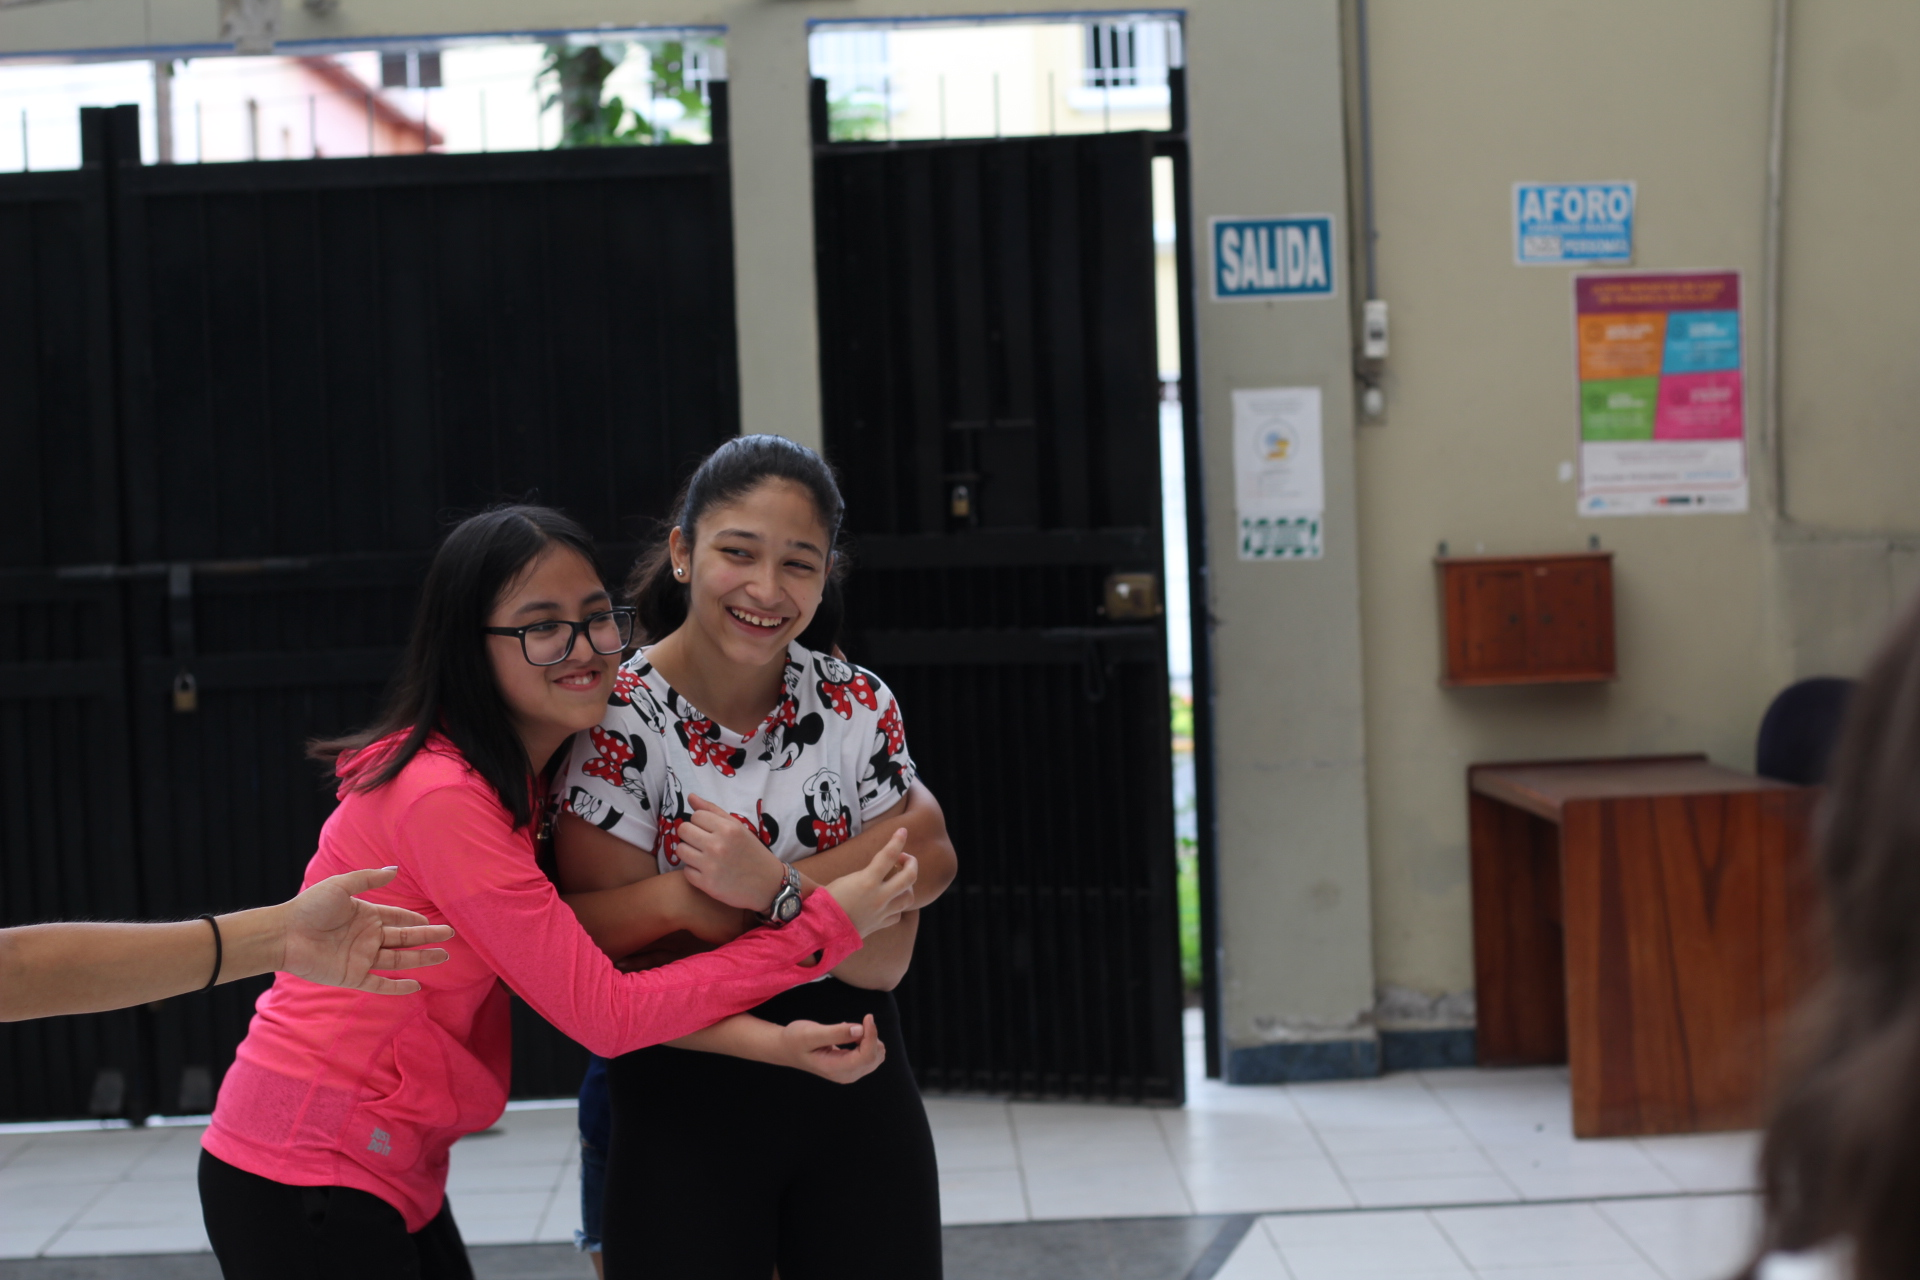
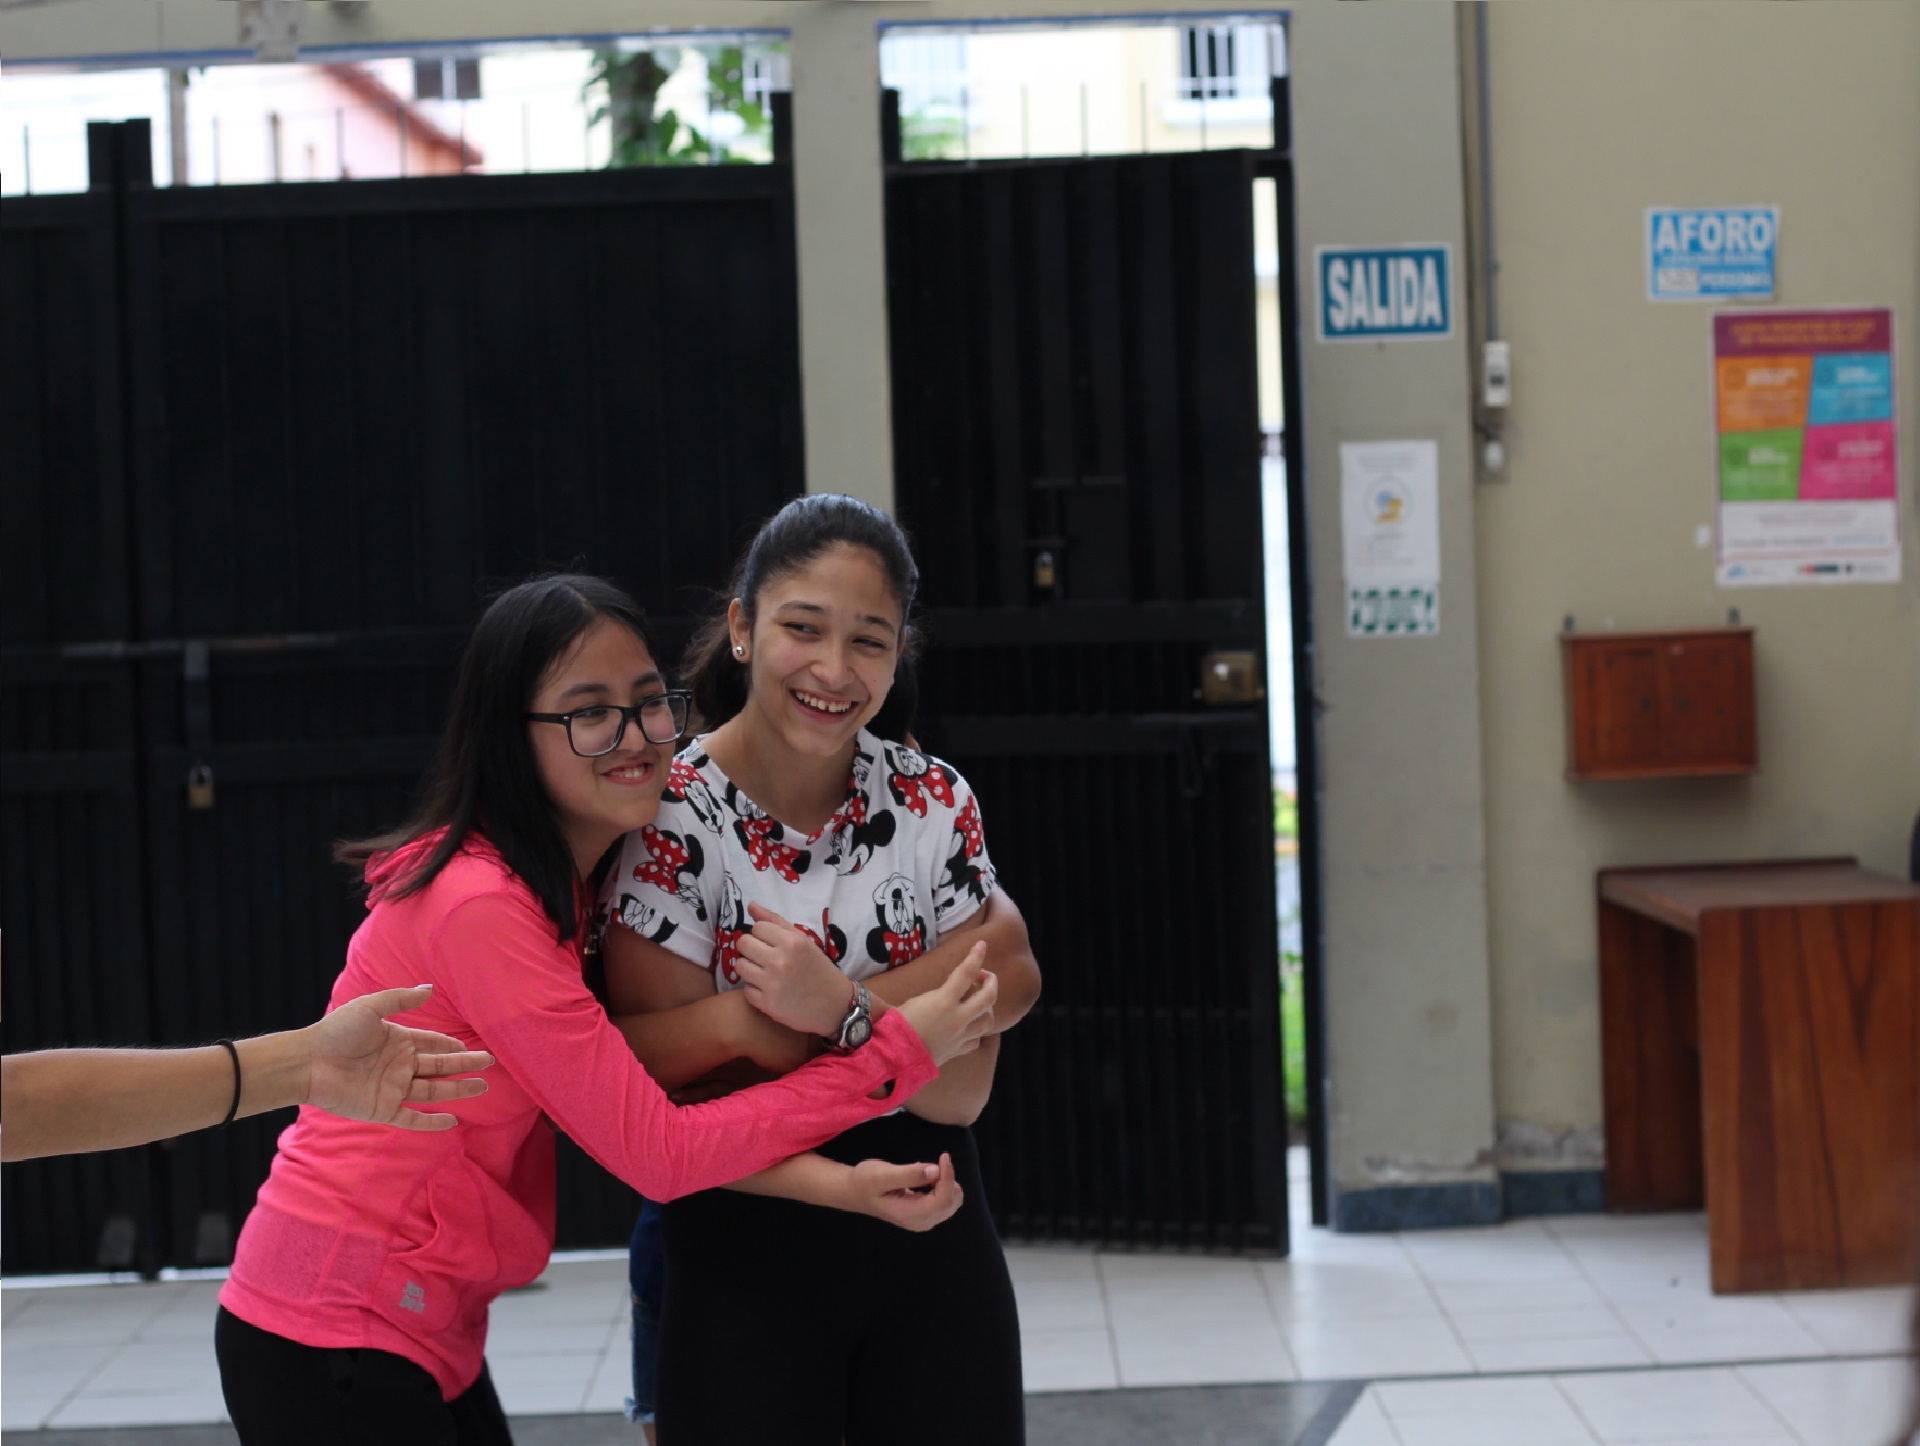
Carrusel
Ubicar botón de donar al lado derecho y ajustar nuestro programas, adicionalmente de adecuar los colores

diff --git a/index.html b/index.html
@@ -116,37 +116,44 @@ https://templatemo.com/tm-558-klassy-cafe
                     <div class="left-content">
                         <div class="inner-content">
                             <h4>Nuestros programas</h4>
-                            <h6>ENTERATE AQUI</h6>
-                            <div class="main-white-button scroll-to-section">
-                                <a href="#reservation">Donar</a>
-                            </div>
+                            <br>
+                            <h5 style="text-align: justify; color: white;">Lorem, ipsum dolor sit amet consectetur adipisicing elit. 
+                                Labore nostrum qui mollitia quia tempora nemo esse sed, 
+                                voluptas molestiae deserunt eaque soluta illo rem incidunt laborum assumenda iure, 
+                                saepe consequuntur?</h5>
+                            
                         </div>
                     </div>
                 </div>
                 <div class="col-lg-8">
-                    <div class="main-banner header-text">
-                        <div class="Modern-Slider">
-                            <!-- Item -->
-                            <div class="item ">
-                                <div class="img-fluid">
-                                    <img src="assets/fotos/2113978389234610332_IMG_5744.JPG" width="100%" alt="">
+                    <div class="main-banner header-text cnt">
+                        <div class="carousel-container">
+                            <div class="Modern-Slider">
+                                <!-- Item -->
+                                <div class="item ">
+                                    <div class="img-fluid">
+                                        <img src="assets/fotos/2113978389234610332_IMG_5744.JPG" width="100%" alt="">
+                                    </div>
                                 </div>
-                            </div>
-                            <!-- // Item -->
-                            <!-- Item -->
-                            <div class="item">
-                                <div class="img-fluid">
-                                    <img src="assets/fotos/-8906044965723687617_IMG_6017.JPG" width="100%" alt="">
+                                <!-- // Item -->
+                                <!-- Item -->
+                                <div class="item">
+                                    <div class="img-fluid">
+                                        <img src="assets/fotos/_8906044965723687617_IMG_6017.jpg" width="100%" alt="">
+                                    </div>
                                 </div>
-                            </div>
-                            <!-- // Item -->
-                            <!-- Item -->
-                            <div class="item">
-                                <div class="img-fluid">
-                                    <img src="assets/fotos/IMG_7188.jpg" width="100%" alt="">
+                                <!-- // Item -->
+                                <!-- Item -->
+                                <div class="item">
+                                    <div class="img-fluid">
+                                        <img src="assets/fotos/IMG_7188.jpg" width="100%" alt="">
+                                    </div>
                                 </div>
+                                <!-- // Item -->
                             </div>
-                            <!-- // Item -->
+                        </div>
+                        <div class="main-white-button scroll-to-section contbtn">
+                            <a href="#reservation">Donar</a>
                         </div>
                     </div>
                 </div>
@@ -835,7 +842,7 @@ https://templatemo.com/tm-558-klassy-cafe
             <div class="row">
                 <div class="col-md-4">
                     <div class="row row-cols-2 row-cols-lg-5 g-2 g-lg-3">
-                        <div class="text-center">
+                        <div class="inner-content">
                             <strong style="color: rgb(38, 140, 14);">ALIANZAS INTERINSTITUCIONALES</strong>
                         </div>
                     </div>

diff --git a/assets/css/templatemo-klassy-cafe.css b/assets/css/templatemo-klassy-cafe.css
@@ -147,13 +147,15 @@ body {
 
 .main-white-button a {
   font-size: 13px;
-  color: #bacb14;
-  background-color: #e3e3ca;
+  color: white;
+  background-color:rgb(38, 140, 14);
   padding: 12px 25px;
   display: inline-block;
   border-radius: 3px;
   font-weight: 600;
   transition: all .3s;
+  font-weight: bold;
+  font-size: 17px;
 }
 
 .main-white-button a:hover {
@@ -675,7 +677,7 @@ banner
 
 #top .left-content .inner-content {
   position: absolute;
-  top: 50%;
+  top: 40%;
   transform: translate(-50%, -50%);
   left: 50%;
 }
@@ -684,7 +686,7 @@ banner
   /* font-family: 'Dancing Script', cursive; */
   font-family: "Bold Light";
   color: #fff;
-  font-size: 54px;
+  font-size: 34px;
   font-weight: 700;
 }
 

diff --git a/assets/css/styles.css b/assets/css/styles.css
@@ -418,3 +418,19 @@ section {
   background-color: rgb(112, 164, 17);
   color: white;
 }
+
+/* Estilo boton - carrusel */
+.cnt {
+  position: relative;
+}
+
+.carousel-container {
+  position: relative;
+}
+
+.contbtn {
+  position: absolute;
+  top: 90%; /* Ajusta la posición vertical según tus necesidades */
+  left: 90%; /* Ajusta la posición horizontal según tus necesidades */
+  transform: translateX(-50%);
+}
